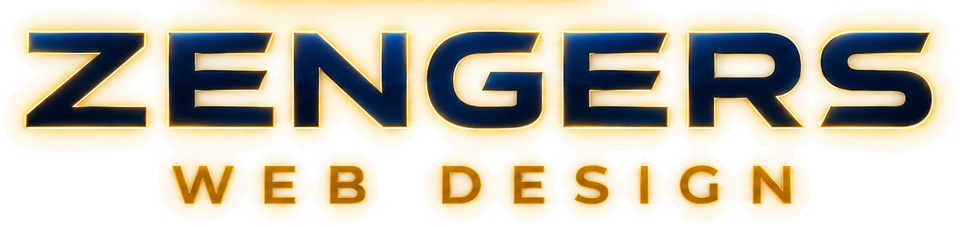
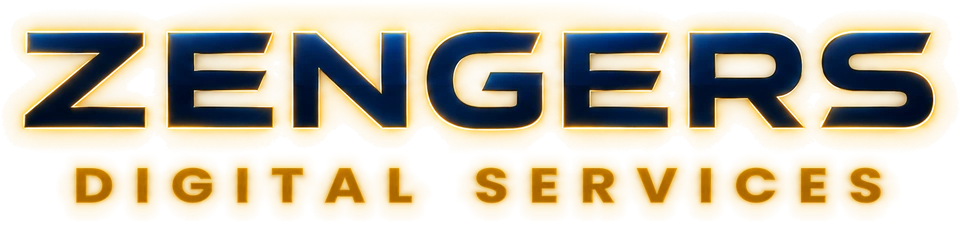
Add files via upload

diff --git a/index.html b/index.html
@@ -3,8 +3,8 @@
 <head>
 <meta charset="utf-8">
 <meta name="viewport" content="width=device-width, initial-scale=1, viewport-fit=cover">
-<title>ZENGERS Web Design</title>
-<meta name="description" content="ZENGERS Web Design builds clear, mobile-ready websites for local businesses, with an easy way for customers to reach you.">
+<title>ZENGERS Digital Services</title>
+<meta name="description" content="ZENGERS Digital Services builds clear, mobile-ready websites for local businesses, with an easy way for customers to reach you.">
 <!-- REVIEW BUILD: remove the next line when the site is approved for public launch. -->
 <meta name="robots" content="noindex, nofollow">
 <meta name="theme-color" content="#EEF1EE">
@@ -32,7 +32,7 @@
 <link rel="stylesheet" href="https://fonts.googleapis.com/css2?family=Big+Shoulders+Display:wght@700;800;900&family=IBM+Plex+Mono:wght@400;500&family=Instrument+Sans:wght@400;500;600;700&family=Archivo:wdth,wght@112..125,700..900&family=Orbitron:wght@800;900&display=swap">
 <style>
 /* ============================================================
-   ZENGERS Web Design — single-page site
+   ZENGERS Digital Services — single-page site
    Colors and type are tokens. Change them here, nowhere else.
    ============================================================ */
 :root{
@@ -114,7 +114,7 @@ p{margin:0}
 
 /* ---------- opening logo animation ("Built from the first click") ----------
    A fixed overlay above the loaded homepage. About 2 seconds, then it removes itself.
-   Timings: frame 0–0.3s · blocks 0.1–0.55s · logo wipe 0.6–1.02s · "Web Design" 1.0–1.28s · hold · exit 1.54–1.98s */
+   Timings: frame 0–0.3s · blocks 0.1–0.55s · logo wipe 0.6–1.02s · "Digital Services" 1.0–1.28s · hold · exit 1.54–1.98s */
 .intro{display:none}
 html.intro-on .intro{display:grid;place-items:center;position:fixed;inset:0;z-index:200;cursor:pointer;--navy:#16264D;--gold:#E9A823;--in:cubic-bezier(.22,1,.36,1);--sweep:cubic-bezier(.65,0,.35,1)}
 html.intro-logo-hidden .site-header .logo-lockup{opacity:0}
@@ -343,7 +343,7 @@ fieldset.group > legend{font-family:var(--mono);font-size:12.5px;letter-spacing:
 <body>
 <!-- ============================ OPENING LOGO ANIMATION ============================
      Shown only when the script in <head> adds "intro-on". The homepage loads underneath.
-     Logo pieces: media/zengers-mark.webp (the Z) and media/zengers-wordmark.webp (ZENGERS / WEB DESIGN). -->
+     Logo pieces: media/zengers-mark.webp (the Z) and media/zengers-wordmark.webp (ZENGERS / DIGITAL SERVICES). -->
 <div class="intro" id="intro" role="presentation">
   <div class="intro-bg"></div>
   <div class="intro-win" aria-hidden="true">
@@ -376,9 +376,9 @@ fieldset.group > legend{font-family:var(--mono);font-size:12.5px;letter-spacing:
 <!-- ============================ HEADER ============================ -->
 <header class="site-header">
   <div class="wrap header-inner">
-    <!-- LOGO: media/zengers-logo-horizontal.webp (the Z mark beside the ZENGERS / WEB DESIGN lettering) -->
+    <!-- LOGO: media/zengers-logo-horizontal.webp (the Z mark beside the ZENGERS / DIGITAL SERVICES lettering) -->
     <a class="wordmark" href="#top">
-      <img class="logo-lockup" src="media/zengers-logo-horizontal.webp" width="561" height="112" alt="ZENGERS Web Design, back to top">
+      <img class="logo-lockup" src="media/zengers-logo-horizontal.webp" width="561" height="112" alt="ZENGERS Digital Services, back to top">
     </a>
     <button class="menu-btn" type="button" aria-expanded="false" aria-controls="site-nav">Menu</button>
     <nav class="nav" id="site-nav" aria-label="Main">
@@ -641,7 +641,7 @@ fieldset.group > legend{font-family:var(--mono);font-size:12.5px;letter-spacing:
       </form>
       <aside class="who" aria-labelledby="who-title">
         <h3 id="who-title">Who you’ll work with</h3>
-        <p>ZENGERS Web Design is a father-and-son business and a division of ZENGERS Inc.</p>
+        <p>ZENGERS Digital Services is a father-and-son business and a division of ZENGERS Inc.</p>
       </aside>
     </div>
   </div>
@@ -738,7 +738,7 @@ fieldset.group > legend{font-family:var(--mono);font-size:12.5px;letter-spacing:
     <div class="footer-grid">
       <div>
         <a class="wordmark" href="#top">
-          <img class="logo-full" src="media/zengers-logo.webp" width="760" height="446" alt="ZENGERS Web Design, back to top" loading="lazy">
+          <img class="logo-full" src="media/zengers-logo.webp" width="760" height="446" alt="ZENGERS Digital Services, back to top" loading="lazy">
         </a>
         <p style="margin-top:14px;max-width:26em">Websites for local businesses. We build it, host it, and keep it up to date.</p>
         <p style="margin-top:6px">A division of ZENGERS Inc.</p>
@@ -755,7 +755,7 @@ fieldset.group > legend{font-family:var(--mono);font-size:12.5px;letter-spacing:
       </nav>
     </div>
     <div class="footer-bottom">
-      <span>© <span id="year">2026</span> ZENGERS Web Design</span>
+      <span>© <span id="year">2026</span> ZENGERS Digital Services</span>
       <a href="#top">Back to top ↑</a>
     </div>
   </div>

diff --git a/examples/electrical.html b/examples/electrical.html
@@ -9,7 +9,7 @@
 <link rel="preconnect" href="https://fonts.gstatic.com" crossorigin>
 <link rel="stylesheet" href="https://fonts.googleapis.com/css2?family=Barlow+Condensed:wght@600;700;800&family=Barlow:wght@400;500;600&display=swap">
 <style>
-/* Concept website: a fictional electrical contractor, built by ZENGERS Web Design as an example. */
+/* Concept website: a fictional electrical contractor, built by ZENGERS Digital Services as an example. */
 :root{
   --coal:#16181C; --steel:#23262C; --wire:#3A3F47; --signal:#FF6A13; --signal-deep:#C44A00; --chalk:#F3F4F1; --paper:#FFFFFF; --ink:#16181C; --muted:#555C66; --line:#DADDD8;
   --cond:"Barlow Condensed","Arial Narrow",Arial,sans-serif; --sans:"Barlow",system-ui,-apple-system,"Segoe UI",Arial,sans-serif;
@@ -80,7 +80,7 @@ footer{background:#0F1114;color:#9AA1AB;padding-block:40px;font-size:15px}
 </style>
 </head>
 <body>
-<div class="concept" role="note"><span><strong>Concept website</strong> by ZENGERS Web Design. Northgate Electric is a fictional business, not a client. Buttons and forms don’t send anything.</span><a href="../examples.html">← All examples</a></div>
+<div class="concept" role="note"><span><strong>Concept website</strong> by ZENGERS Digital Services. Northgate Electric is a fictional business, not a client. Buttons and forms don’t send anything.</span><a href="../examples.html">← All examples</a></div>
 
 <div class="alert"><div class="wrap"><span>Power out or sparking outlet?</span><a href="tel:+16155550187">Emergency line: (615) 555-0187</a></div></div>
 
@@ -147,7 +147,7 @@ footer{background:#0F1114;color:#9AA1AB;padding-block:40px;font-size:15px}
   <div class="wrap foot">
     <span class="brand" style="color:#F3F4F1;font-size:22px">Northgate Electric</span>
     <span>(615) 555-0187 · hello@example.com · Mon–Fri, 7am–5pm</span>
-    <span>Concept website by ZENGERS Web Design</span>
+    <span>Concept website by ZENGERS Digital Services</span>
   </div>
 </footer>
 

diff --git a/examples.html b/examples.html
@@ -3,8 +3,8 @@
 <head>
 <meta charset="utf-8">
 <meta name="viewport" content="width=device-width, initial-scale=1, viewport-fit=cover">
-<title>Example Websites · ZENGERS Web Design</title>
-<meta name="description" content="Concept websites by ZENGERS Web Design for a landscaper, an electrician, and a retail shop.">
+<title>Example Websites · ZENGERS Digital Services</title>
+<meta name="description" content="Concept websites by ZENGERS Digital Services for a landscaper, an electrician, and a retail shop.">
 <!-- REVIEW BUILD: remove the next line when the site is approved for public launch. -->
 <meta name="robots" content="noindex, nofollow">
 <meta name="theme-color" content="#EEF1EE">
@@ -83,7 +83,7 @@ img{max-width:100%;display:block} a{color:inherit} h1,h2,h3{margin:0;text-wrap:b
 <a class="skip" href="#main">Skip to main content</a>
 <header class="site-header">
   <div class="wrap header-inner">
-    <a href="index.html"><img class="logo-lockup" src="media/zengers-logo-horizontal.webp" width="561" height="112" alt="ZENGERS Web Design home"></a>
+    <a href="index.html"><img class="logo-lockup" src="media/zengers-logo-horizontal.webp" width="561" height="112" alt="ZENGERS Digital Services home"></a>
     <button class="menu-btn" type="button" aria-expanded="false" aria-controls="site-nav">Menu</button>
     <nav class="nav" id="site-nav" aria-label="Main">
       <a href="index.html#services">Services</a>
@@ -153,7 +153,7 @@ img{max-width:100%;display:block} a{color:inherit} h1,h2,h3{margin:0;text-wrap:b
 
 <footer class="site-footer">
   <div class="wrap foot">
-    <span>© <span id="year">2026</span> ZENGERS Web Design · A division of ZENGERS Inc.</span>
+    <span>© <span id="year">2026</span> ZENGERS Digital Services · A division of ZENGERS Inc.</span>
     <a href="index.html">Back to home</a>
   </div>
 </footer>

diff --git a/examples/retail.html b/examples/retail.html
@@ -9,7 +9,7 @@
 <link rel="preconnect" href="https://fonts.gstatic.com" crossorigin>
 <link rel="stylesheet" href="https://fonts.googleapis.com/css2?family=Cormorant+Garamond:ital,wght@0,500;0,600;1,500&family=Jost:wght@400;500;600&display=swap">
 <style>
-/* Concept website: a fictional home goods and gift shop, built by ZENGERS Web Design as an example. */
+/* Concept website: a fictional home goods and gift shop, built by ZENGERS Digital Services as an example. */
 :root{
   --plum:#3E2240; --plum-2:#5A3559; --blush:#EBD3CB; --rose:#F6E9E4; --ochre:#C8902E; --sage:#7C8C6B; --ivory:#FBF6F2; --ink:#2A1A2B; --muted:#6A5667; --line:#E5D2CC;
   --serif:"Cormorant Garamond",Garamond,Georgia,serif; --sans:"Jost",system-ui,-apple-system,"Segoe UI",Arial,sans-serif;
@@ -80,7 +80,7 @@ footer .brand{color:var(--ivory);font-size:24px}
 </style>
 </head>
 <body>
-<div class="concept" role="note"><span><strong>Concept website</strong> by ZENGERS Web Design. Marigold &amp; Mill is a fictional shop, not a client. Buttons and forms don’t send or sell anything.</span><a href="../examples.html">← All examples</a></div>
+<div class="concept" role="note"><span><strong>Concept website</strong> by ZENGERS Digital Services. Marigold &amp; Mill is a fictional shop, not a client. Buttons and forms don’t send or sell anything.</span><a href="../examples.html">← All examples</a></div>
 
 <header class="top">
   <div class="wrap top-inner">
@@ -155,7 +155,7 @@ footer .brand{color:var(--ivory);font-size:24px}
   <div class="wrap foot">
     <span class="brand">Marigold &amp; Mill</span>
     <span>(615) 555-0163 · hello@example.com</span>
-    <span>Concept website by ZENGERS Web Design</span>
+    <span>Concept website by ZENGERS Digital Services</span>
   </div>
 </footer>
 

diff --git a/examples/landscaping.html b/examples/landscaping.html
@@ -9,7 +9,7 @@
 <link rel="preconnect" href="https://fonts.gstatic.com" crossorigin>
 <link rel="stylesheet" href="https://fonts.googleapis.com/css2?family=Young+Serif&family=Figtree:wght@400;500;600;700&display=swap">
 <style>
-/* Concept website: a fictional landscaping company, built by ZENGERS Web Design as an example. */
+/* Concept website: a fictional landscaping company, built by ZENGERS Digital Services as an example. */
 :root{
   --moss:#23391F; --fern:#3F6B3A; --leaf:#6E9B5E; --lime:#C3DB7A; --meadow:#EEF3E6; --bark:#5E4A3E; --ink:#1B2419; --muted:#4D5A49; --line:#CFDAC4;
   --serif:"Young Serif",Georgia,"Times New Roman",serif; --sans:"Figtree",system-ui,-apple-system,"Segoe UI",Arial,sans-serif;
@@ -75,7 +75,7 @@ footer .brand{color:#fff}
 </style>
 </head>
 <body>
-<div class="concept" role="note"><span><strong>Concept website</strong> by ZENGERS Web Design. Fernhill Landscapes is a fictional business, not a client. Buttons and forms don’t send anything.</span><a href="../examples.html">← All examples</a></div>
+<div class="concept" role="note"><span><strong>Concept website</strong> by ZENGERS Digital Services. Fernhill Landscapes is a fictional business, not a client. Buttons and forms don’t send anything.</span><a href="../examples.html">← All examples</a></div>
 
 <header class="top">
   <div class="wrap top-inner">
@@ -145,7 +145,7 @@ footer .brand{color:#fff}
   <div class="wrap foot">
     <a class="brand" href="#">Fernhill Landscapes</a>
     <span>(615) 555-0142 · hello@example.com · Mon–Sat, 7am–6pm</span>
-    <span>Concept website by ZENGERS Web Design</span>
+    <span>Concept website by ZENGERS Digital Services</span>
   </div>
 </footer>
 
